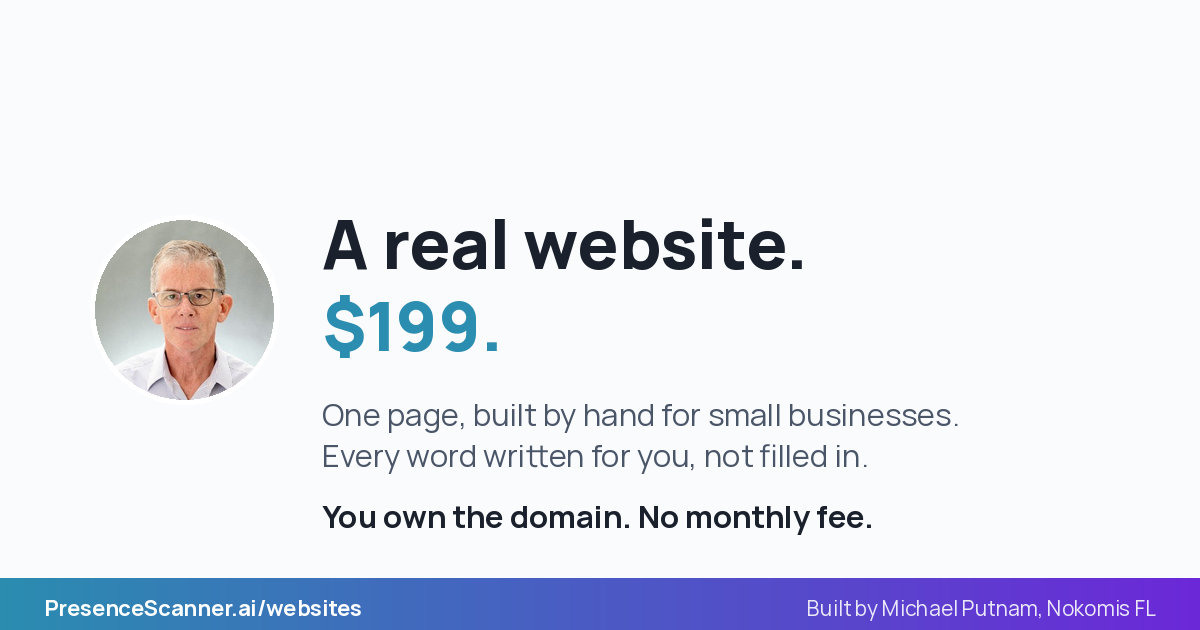
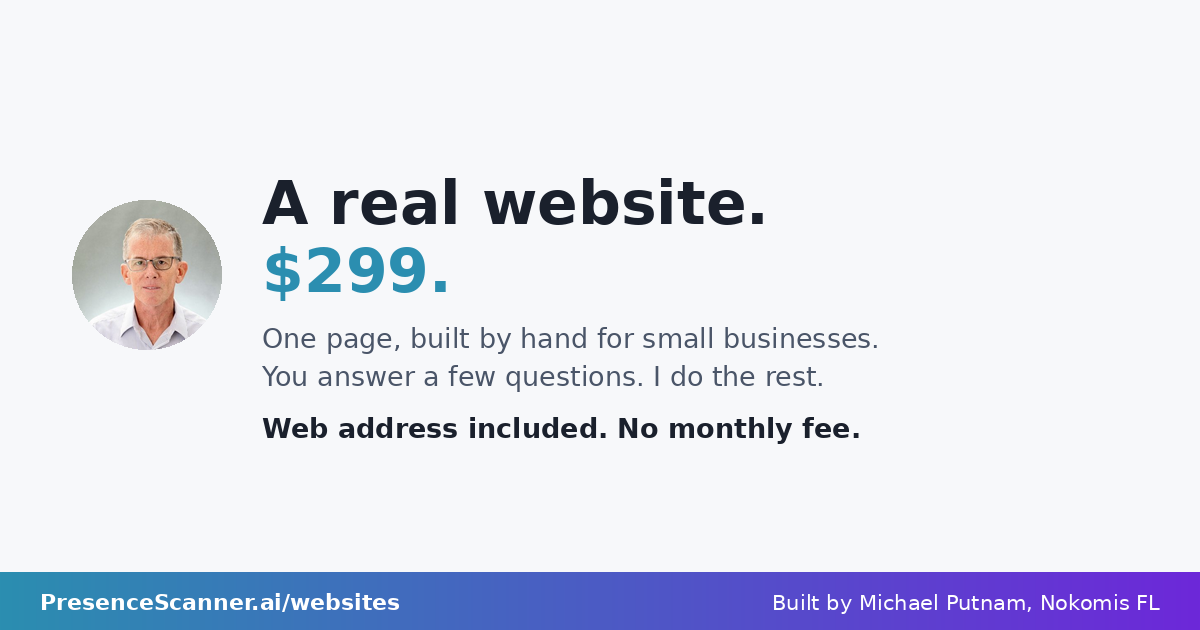
Add files via upload

Changed region(s): [[0.0617, 0.2714, 0.8017, 0.754], [0.0, 0.9048, 1.0, 0.9952], [0.2775, 0.7841, 0.74, 0.8444]]

diff --git a/public/websites.html b/public/websites.html
@@ -12,11 +12,11 @@
 
 <meta charset="UTF-8">
 <meta name="viewport" content="width=device-width, initial-scale=1.0">
-<title>Small Business Website, $199, Venice FL | PresenceScanner</title>
-<meta name="description" content="What a small business website costs in Southwest Florida. One page, built by hand, $199, no monthly fee. You own the domain. Venice, North Port and Sarasota.">
+<title>Small Business Website, $299, Venice FL | PresenceScanner</title>
+<meta name="description" content="What a small business website costs in Southwest Florida. One page, built by hand, $299, web address included, no monthly fee. Venice, North Port and Sarasota.">
 <link rel="canonical" href="https://www.presencescanner.ai/websites">
-<meta property="og:title" content="A real website, built by hand. $199.">
-<meta property="og:description" content="Hand-built, not a template. You own the domain. Submitted to Google and Bing. Built by Michael Putnam in Venice, Florida.">
+<meta property="og:title" content="A real website, built by hand. $299.">
+<meta property="og:description" content="One page, built by hand for small businesses. You answer a few questions, I do the rest. I buy the web address in your name. Built by Michael Putnam in Venice, Florida.">
 <meta property="og:type" content="website">
 <meta property="og:image" content="https://www.presencescanner.ai/og-websites.png">
 <meta property="og:image:width" content="1200">
@@ -24,6 +24,11 @@
 <meta property="og:url" content="https://www.presencescanner.ai/websites">
 <meta name="twitter:card" content="summary_large_image">
 <meta name="twitter:image" content="https://www.presencescanner.ai/og-websites.png">
+<link rel="icon" href="/favicon.ico" sizes="any">
+<link rel="icon" type="image/png" sizes="32x32" href="/favicon-32x32.png">
+<link rel="icon" type="image/png" sizes="16x16" href="/favicon-16x16.png">
+<link rel="apple-touch-icon" href="/apple-touch-icon.png">
+<meta name="theme-color" content="#2b8eb0">
 <link rel="preconnect" href="https://fonts.googleapis.com">
 <link rel="preconnect" href="https://fonts.gstatic.com" crossorigin>
 <link href="https://fonts.googleapis.com/css2?family=Manrope:wght@500;600;700;800&amp;family=DM+Sans:wght@400;500;600&amp;display=optional" rel="stylesheet">
@@ -75,7 +80,7 @@
   "@id": "https://www.presencescanner.ai/websites#service",
   "name": "One-Page Website Build for Local Businesses",
   "serviceType": "Website design and build",
-  "description": "A hand-built one-page website for small local businesses in Southwest Florida, written so Google and AI search tools can read and cite it. $199 one time. The customer owns the domain and the hosting account.",
+  "description": "A hand-built one-page website for small local businesses in Southwest Florida, written so Google and AI search tools can read and quote it. $299 one time, including the first year of the web address. The web address is bought in the customer’s name and the account is theirs.",
   "provider": {
     "@type": "LocalBusiness",
     "name": "PresenceScanner",
@@ -103,9 +108,9 @@
   ],
   "offers": {
     "@type": "Offer",
-    "price": "199",
+    "price": "299",
     "priceCurrency": "USD",
-    "description": "One page, built by hand. Extra pages $99 each. The customer owns the domain and hosting.",
+    "description": "One page, built by hand, including the first year of the web address. Extra pages $99 each. The web address is bought in the customer’s name and the account is theirs.",
     "availability": "https://schema.org/InStock"
   }
 }
@@ -140,15 +145,15 @@
       "name": "How much should a small business website cost?",
       "acceptedAnswer": {
         "@type": "Answer",
-        "text": "Search that question and you get agency guides quoting $500 to $15,000, or $500 to $25,000, and every one of them ends with \"it depends.\" That range is real, because it covers everything from a one-page site to a full online shop. What it does not do is answer your question. Here is a number instead. A one-page small business website, built by hand, is $199 with me. One payment. Extra pages are $99 each. The domain is yours, bought in your own name, and the hosting is free at this size and sits in your own account. If you need an online shop, a booking system or twenty pages of content, the agency ranges are honest and you should budget accordingly. If you need one good page that Google and AI search can actually read, you do not need to spend thousands."
+        "text": "Search that question and you get agency guides quoting $500 to $15,000, or $500 to $25,000, and every one of them ends with \"it depends.\" That range is real, because it covers everything from a one-page site to a full online shop. What it does not do is answer your question. Here is a number instead. A one-page small business website, built by hand, is $299 with me. One payment, and that includes me buying your web address for the first year and setting it up in your name. Extra pages are $99 each. Keeping a one-page site online costs nothing. If you need an online shop, a booking system or twenty pages of content, the agency ranges are honest and you should budget accordingly. If you need one good page that Google and AI search can actually read, you do not need to spend thousands."
       }
     },
     {
       "@type": "Question",
-      "name": "What does $199 actually get me?",
+      "name": "What does $299 actually get me?",
       "acceptedAnswer": {
         "@type": "Answer",
-        "text": "One page, built by hand from what you tell me about your business. Your services written out specifically, your service area, your real customer reviews as text, a tap-to-call button, and a set of questions and answers customers actually ask. Plus the technical work underneath that makes it readable to Google and to AI tools: structured data, a sitemap, a robots file that welcomes the AI crawlers, and submission to both Google and Bing."
+        "text": "Your web address, bought and set up in your name. One page, built by hand. Your services written out specifically, the towns you cover, your real customer reviews as text, a button that dials your phone, and a set of questions and answers customers actually ask. Underneath that, the work nobody sees: the labels that tell Google what kind of business you are, a file that invites the AI tools in rather than shutting them out, and your page submitted to Google and Bing by me so it gets found instead of sitting there."
       }
     },
     {
@@ -156,23 +161,15 @@
       "name": "Why one page and not five?",
       "acceptedAnswer": {
         "@type": "Answer",
-        "text": "Because one page carries the heavy work. Everything that makes you findable, your services, your reviews, your questions and answers and the technical work underneath, all sits on that page and all of it counts. Five thin pages perform worse than one good one. Start with the one, live with it a while, and add pages later if you find you actually need them. They are $99 each and they are not going anywhere."
+        "text": "Because one page carries the heavy work. Everything that makes you findable, your services, your reviews, your questions and answers and the work underneath, all sits on that page and all of it counts. My own view, from building these, is that five thin pages do less for you than one good one. Start with the one, live with it a while, and add pages later if you find you actually need them. They are $99 each and they are not going anywhere."
       }
     },
     {
       "@type": "Question",
-      "name": "Who owns the domain and the website?",
+      "name": "Who owns the website?",
       "acceptedAnswer": {
         "@type": "Answer",
-        "text": "You do, both. The domain is bought in your own name, with your own card. The hosting sits in your own account, free at this size, and you invite me in to do the work. You can remove me with two clicks whenever you like, and the files are yours on request."
-      }
-    },
-    {
-      "@type": "Question",
-      "name": "Why is the hosting free? What happens if that changes?",
-      "acceptedAnswer": {
-        "@type": "Answer",
-        "text": "Cloudflare's own documentation says requests to static assets are free and unlimited. It is not a trial or a promotion. They already run that network for their paying customers, so serving a small site like yours costs them nothing extra, and some free users eventually become paying ones. That is the whole model. If they ever did start charging, their paid plan starts at $5 a month, but the better answer is that it would barely matter. Your site is plain files with no database behind it, so moving it somewhere else takes minutes. You are not locked in to anybody, including me."
+        "text": "You do. I buy the web address, but the account is created in your name with your email and your phone number, and you get the password. The account the site runs on is in your name too, and you invite me in to do the work. You can remove me with two clicks whenever you like, and the files are yours on request. It is yours, not rented from me."
       }
     },
     {
@@ -180,7 +177,7 @@
       "name": "Is there a monthly fee?",
       "acceptedAnswer": {
         "@type": "Answer",
-        "text": "No. You pay the $199 once. The only ongoing cost is your domain renewal, which goes to the registrar rather than to me. They set that price and it can change, so check it when you buy."
+        "text": "No. You pay the $299 once, and the first year of your web address is in that. After that the only thing you pay is the renewal, about $11 a year, and it goes to the company that holds it rather than to me. Keeping a one-page site online is free. That is not a trial offer. Cloudflare's own documentation says requests to static assets are free and unlimited on both the free and paid plans."
       }
     },
     {
@@ -188,7 +185,7 @@
       "name": "How long does it take?",
       "acceptedAnswer": {
         "@type": "Answer",
-        "text": "A few days, usually. The build itself takes under an hour. What takes the time is you and I talking through what goes on it, and then waiting for the domain to connect."
+        "text": "A few days, usually. The build itself takes under an hour. What takes the time is you and I talking through what goes on it, and then waiting for your web address to connect."
       }
     },
     {
@@ -204,7 +201,7 @@
       "name": "I already have a Facebook page. Is that not enough?",
       "acceptedAnswer": {
         "@type": "Answer",
-        "text": "Facebook is rented ground and it is hard for search engines and AI tools to read. When someone asks ChatGPT for a painter in North Port, it draws on web pages it can read, not on your Facebook posts. A page of your own on your own domain is something you control and something those tools can quote."
+        "text": "Facebook is somebody else's property and it is hard for Google and the AI tools to read. When someone asks ChatGPT for a painter in North Port, it draws on web pages it can read, not on your Facebook posts. A page of your own, at your own web address, is something you control and something those tools can quote."
       }
     },
     {
@@ -212,7 +209,7 @@
       "name": "Do I have to be on the PresenceScanner directory?",
       "acceptedAnswer": {
         "@type": "Answer",
-        "text": "No. They are separate things. The directory listing is free and always will be. This is paid work on a site of your own."
+        "text": "No. They are separate things. The directory listing is free and always will be. This is paid work on a website of your own."
       }
     },
     {
@@ -220,7 +217,7 @@
       "name": "What makes this different from Wix or Squarespace?",
       "acceptedAnswer": {
         "@type": "Answer",
-        "text": "Those give you a template and you do the work. This is written for you, by a person, from a conversation about your business. And the part most template sites skip is the part that matters now: the structured data, the visible questions and answers, and being submitted properly so Google and AI tools can find it."
+        "text": "Those hand you a template and you do the work. Here you answer a few questions and I do the rest. And the part most template sites skip is the part that matters now: the labels Google reads, questions and answers written out where people can see them, and the page submitted properly so Google and the AI tools can find it."
       }
     }
   ]
@@ -232,15 +229,22 @@
 <div class="wrap">
 
   <p class="crumb"><a href="https://www.presencescanner.ai">PresenceScanner</a> &rsaquo; Websites</p>
-  <h1>A one-page website, built by hand, $199</h1>
-  <p class="lead">Affordable small business web design for Venice, Nokomis, North Port, Port Charlotte, Englewood and Sarasota. For anybody who doesn't have a website yet, or has one nobody can find. You own the domain. You own the hosting. One payment, no monthly fee.</p>
+  <h1>A one-page website, built by hand, $299</h1>
+  <p class="lead">Small business websites for Venice, Nokomis, North Port, Port Charlotte, Englewood and Sarasota. For anybody with no website yet, or one that never turns up when people search. I buy the web address for you, in your name. One payment, no monthly fee.</p>
 
   <div class="tide" style="display:flex;gap:18px;align-items:flex-start;flex-wrap:wrap">
     <img src="https://www.presencescanner.ai/michael-putnam.jpg" alt="Michael Putnam, who builds the websites, Venice Florida" width="92" height="92" style="width:92px;height:92px;border-radius:50%;flex-shrink:0;border:2px solid #fff;box-shadow:0 2px 8px rgba(0,0,0,.08)">
     <div style="flex:1;min-width:240px">
-    <p style="margin:0 0 8px"><strong>Michael Putnam, Venice.</strong> You deal with me start to finish. There is no team, no account manager and no ticket number.</p>
-    <p style="margin:0"><strong>Why this exists.</strong> I run the free PresenceScanner directory, and the same thing kept showing up in scan after scan: a business with a hundred five-star reviews, thirty years of work behind them, and nothing on the web that Google or ChatGPT can actually read. A directory page helps. Your own site helps more. So I started building them.</p>
+    <p style="margin:0 0 8px"><strong>Michael Putnam, Venice.</strong> You deal with me start to finish. There is no team and no account manager.</p>
+    <p style="margin:0"><strong>Why this exists.</strong> I run the free PresenceScanner directory, and the same thing kept showing up in scan after scan: a business with a hundred five-star reviews, thirty years of work behind them, and nothing on the web that Google or ChatGPT can actually read. A directory page helps. Your own website helps more. So I started building them.</p>
     </div>
+  </div>
+
+  <h2>Who this is for</h2>
+  <div class="card">
+    <p style="margin-bottom:10px"><strong>It's for you if</strong> you run a small business, you do good work, people leave you good reviews, and none of that exists anywhere a search engine can read it. Most of what I build is for trades and service businesses, because that is who needs it most around here.</p>
+    <p style="margin-bottom:10px"><strong>It isn't for you if</strong> you need an online shop, a booking calendar built from scratch, a members area, or twenty pages of content.</p>
+    <p style="margin-bottom:0">Not because those are bad ideas. Because they are real development work and they cost real money, thousands rather than hundreds, and anyone who tells you otherwise at this price is going to hand you something broken. I would rather say so now than take your $299 and disappoint you. If that is what you need, I will tell you straight and point you somewhere better.</p>
   </div>
 
   <h2>See one first</h2>
@@ -250,91 +254,43 @@
     <p style="margin-bottom:0">Built from one phone call and a folder of his own photos. Live in a few days.</p>
   </div>
 
-  <div class="card">
-    <p style="font-style:italic;margin-bottom:10px">"Working with Michael Putnam was a great experience. He built my site from nothing, corrected every detail, and turned it into a clean, professional web page that represents my business perfectly. Highly recommend his work."</p>
-    <p style="margin:0;color:var(--med);font-size:.95rem">Russell Opp, GOGO Painting LLC, North Port</p>
-  </div>
-
   <h2>What you get</h2>
   <div class="card">
     <div class="step"><strong>Your services, written out specifically.</strong></div>
-    <p style="margin:-8px 0 16px">Not "home services." The actual words customers type, because those are the words that get you found.</p>
+    <p style="margin:-8px 0 16px">Not a catch-all phrase like home services. The actual words customers type, because those are the words that get you found.</p>
 
     <div class="step"><strong>Your real reviews, as text on the page.</strong></div>
-    <p style="margin:-8px 0 16px">A link to your reviews is no use. The systems doing the recommending can't read a link. They can read words.</p>
+    <p style="margin:-8px 0 16px">Google and the AI tools cannot read a link to your reviews. They read words. So the words go on the page.</p>
 
     <div class="step"><strong>Your photos, sized properly.</strong></div>
     <p style="margin:-8px 0 16px">Before and after pairs if you have them. That's the strongest thing a trade can show.</p>
 
     <div class="step"><strong>Questions and answers people actually ask.</strong></div>
-    <p style="margin:-8px 0 16px">Visible on the page, not hidden in the code. This is the part most sites get wrong, and it's the part AI tools quote.</p>
+    <p style="margin:-8px 0 16px">Written out where customers can read them. Most websites leave these out, and the AI tools quote them more than anything else on a page.</p>
 
     <div class="step"><strong>Tap to call, everywhere.</strong></div>
     <p style="margin:-8px 0 16px">A phone number they can press, visible the whole way down the page.</p>
 
-    <div class="step"><strong>The technical work underneath.</strong></div>
-    <p style="margin:-8px 0 0">Structured data so search engines know what your business is. A sitemap. A robots file that welcomes the AI crawlers rather than blocking them. Then submitted to Google and Bing, and indexing requested, so it actually gets found instead of sitting there.</p>
+    <div class="step"><strong>The work nobody sees.</strong></div>
+    <p style="margin:-8px 0 0">Behind the words there's a layer that tells Google what kind of business you are and invites the AI tools in rather than shutting them out. Most websites get this wrong or skip it. I set it up and then submit your page to Google and Bing myself, so it gets found instead of sitting there.</p>
   </div>
 
   <h2>What it costs</h2>
   <div class="card">
-    <div class="step"><span style="color:var(--cyan);font-weight:800">$199</span> <span>one page, one payment</span></div>
+    <div class="step"><span style="color:var(--cyan);font-weight:800">$299</span> <span>one page, one payment, and I buy your web address for the first year</span></div>
     <div class="step"><span style="color:var(--cyan);font-weight:800">$99</span> <span>each extra page, if you genuinely need one</span></div>
-    <div class="step"><span style="color:var(--cyan);font-weight:800">Domain</span> <span>bought in your own name, paid to the registrar, not to me. Roughly $11 to $22 a year depending where you buy it.</span></div>
-    <p style="margin:14px 0 0"><strong>No monthly fee. No hosting bill.</strong> Hosting is free at this size and it sits in your account, not mine.</p>
-  </div>
-
-  <h2>Where to buy your domain</h2>
-  <div class="card">
-    <p>You buy it, not me, so it is yours outright. Here is what they actually cost, because the advertised first-year price is rarely the price you keep paying.</p>
-    <div class="step"><a class="backlink" href="https://www.cloudflare.com/products/registrar/" target="_blank" rel="noopener">Cloudflare</a></div>
-    <p style="margin:-8px 0 16px">About $10.46 a year for a .com, the same every year, with privacy included. This is the one I recommend. It is the cheapest, and because the site ends up hosted there anyway, it saves a step on setup.</p>
-    <div class="step"><a class="backlink" href="https://www.godaddy.com/domains" target="_blank" rel="noopener">GoDaddy</a></div>
-    <p style="margin:-8px 0 16px">Around $21.99 a year on renewal, with privacy a further $10 to $15. The first year is often cheap and then it jumps. Worth knowing if you go this way.</p>
-    <p style="margin:0;color:var(--med);font-size:.93rem">The GoDaddy link above is an affiliate link, which means I may earn a small commission if you sign up through it, at no extra cost to you. The Cloudflare link is not, and Cloudflare is the cheaper option. I would rather tell you that than earn a few dollars.</p>
+    <div class="step"><span style="color:var(--cyan);font-weight:800">After year one</span> <span>the web address renews at about $11 a year. You pay that to the company that holds it, not to me.</span></div>
+    <p style="margin:14px 0 0"><strong>No monthly fee.</strong> Keeping a one-page website online costs nothing, and that account is in your name, not mine.</p>
   </div>
 
   <h2>How it works</h2>
   <div class="card">
-    <div class="step"><strong>1.</strong><span>You fill in a form. Ten minutes, and it's what the site gets written from.</span></div>
+    <div class="step"><strong>1.</strong><span>You fill in a form. Ten minutes, and it's what the website gets written from.</span></div>
     <div class="step"><strong>2.</strong><span>We talk. Half an hour on the phone about your business, which is where the good material comes from.</span></div>
-    <div class="step"><strong>3.</strong><span>You buy your domain, in your own name, and I'll walk you through it.</span></div>
+    <div class="step"><strong>3.</strong><span>I buy your web address and set the account up in your name, your email and your phone number. Then I hand you the password. It is yours from day one.</span></div>
     <div class="step"><strong>4.</strong><span>I build it and you look at it. One round of changes included.</span></div>
-    <div class="step"><strong>5.</strong><span>It goes live on your domain and gets submitted to Google and Bing.</span></div>
+    <div class="step"><strong>5.</strong><span>It goes live and I submit it to Google and Bing.</span></div>
     <div class="step" style="margin-bottom:0"><strong>6.</strong><span>You add it to your Google Business Profile, which is the field most businesses leave empty.</span></div>
-  </div>
-
-  <h2>Who this is for</h2>
-  <div class="card">
-    <p style="margin-bottom:10px"><strong>It's for you if</strong> you run a small business, you do good work, people leave you good reviews, and none of that exists anywhere a search engine can read it. Most of the small business web design I do is for trades and service businesses, because that is who needs it most around here.</p>
-    <p style="margin-bottom:10px"><strong>It isn't for you if</strong> you need an online shop, a booking calendar built from scratch, a membership area, or twenty pages of content.</p>
-    <p style="margin-bottom:0">Not because those are bad ideas. Because they are real development work and they cost real money, thousands rather than hundreds, and anyone who tells you otherwise at this price is going to hand you something broken. I would rather say so now than take your $199 and disappoint you. If that is what you need, I will tell you straight and point you somewhere better.</p>
-  </div>
-
-  <h2>Common questions</h2>
-  <div class="faq">
-    <p style="font-weight:700;color:var(--ink);margin:0 0 5px">How much should a small business website cost?</p>
-    <p style="margin:0 0 18px">Search that question and you get agency guides quoting $500 to $15,000, or $500 to $25,000, and every one of them ends with "it depends." That range is real, because it covers everything from a one-page site to a full online shop. What it does not do is answer your question. Here is a number instead. A one-page small business website, built by hand, is $199 with me. One payment. Extra pages are $99 each. The domain is yours, bought in your own name, and the hosting is free at this size and sits in your own account. If you need an online shop, a booking system or twenty pages of content, the agency ranges are honest and you should budget accordingly. If you need one good page that Google and AI search can actually read, you do not need to spend thousands.</p>
-    <p style="font-weight:700;color:var(--ink);margin:0 0 5px">What does $199 actually get me?</p>
-    <p style="margin:0 0 18px">One page, built by hand from what you tell me about your business. Your services written out specifically, your service area, your real customer reviews as text, a tap-to-call button, and a set of questions and answers customers actually ask. Plus the technical work underneath that makes it readable to Google and to AI tools: structured data, a sitemap, a robots file that welcomes the AI crawlers, and submission to both Google and Bing.</p>
-    <p style="font-weight:700;color:var(--ink);margin:0 0 5px">Why one page and not five?</p>
-    <p style="margin:0 0 18px">Because one page carries the heavy work. Everything that makes you findable, your services, your reviews, your questions and answers and the technical work underneath, all sits on that page and all of it counts. Five thin pages perform worse than one good one. Start with the one, live with it a while, and add pages later if you find you actually need them. They are $99 each and they are not going anywhere.</p>
-    <p style="font-weight:700;color:var(--ink);margin:0 0 5px">Who owns the domain and the website?</p>
-    <p style="margin:0 0 18px">You do, both. The domain is bought in your own name, with your own card. The hosting sits in your own account, free at this size, and you invite me in to do the work. You can remove me with two clicks whenever you like, and the files are yours on request.</p>
-    <p style="font-weight:700;color:var(--ink);margin:0 0 5px">Why is the hosting free? What happens if that changes?</p>
-    <p style="margin:0 0 18px">Cloudflare's own documentation says requests to static assets are free and unlimited. It is not a trial or a promotion. They already run that network for their paying customers, so serving a small site like yours costs them nothing extra, and some free users eventually become paying ones. That is the whole model. If they ever did start charging, their paid plan starts at $5 a month, but the better answer is that it would barely matter. Your site is plain files with no database behind it, so moving it somewhere else takes minutes. You are not locked in to anybody, including me.</p>
-    <p style="font-weight:700;color:var(--ink);margin:0 0 5px">Is there a monthly fee?</p>
-    <p style="margin:0 0 18px">No. You pay the $199 once. The only ongoing cost is your domain renewal, which goes to the registrar rather than to me. They set that price and it can change, so check it when you buy.</p>
-    <p style="font-weight:700;color:var(--ink);margin:0 0 5px">How long does it take?</p>
-    <p style="margin:0 0 18px">A few days, usually. The build itself takes under an hour. What takes the time is you and I talking through what goes on it, and then waiting for the domain to connect.</p>
-    <p style="font-weight:700;color:var(--ink);margin:0 0 5px">What if I do not like it?</p>
-    <p style="margin:0 0 18px">You get one round of changes included. Tell me what is wrong and I fix it. Typos and wrong phone numbers are always free to fix, whenever you spot them.</p>
-    <p style="font-weight:700;color:var(--ink);margin:0 0 5px">I already have a Facebook page. Is that not enough?</p>
-    <p style="margin:0 0 18px">Facebook is rented ground and it is hard for search engines and AI tools to read. When someone asks ChatGPT for a painter in North Port, it draws on web pages it can read, not on your Facebook posts. A page of your own on your own domain is something you control and something those tools can quote.</p>
-    <p style="font-weight:700;color:var(--ink);margin:0 0 5px">Do I have to be on the PresenceScanner directory?</p>
-    <p style="margin:0 0 18px">No. They are separate things. The directory listing is free and always will be. This is paid work on a site of your own.</p>
-    <p style="font-weight:700;color:var(--ink);margin:0 0 5px">What makes this different from Wix or Squarespace?</p>
-    <p style="margin:0 0 0">Those give you a template and you do the work. This is written for you, by a person, from a conversation about your business. And the part most template sites skip is the part that matters now: the structured data, the visible questions and answers, and being submitted properly so Google and AI tools can find it.</p>
   </div>
 
   <div class="join">
@@ -344,6 +300,42 @@
       <a href="https://docs.google.com/forms/d/e/1FAIpQLSf1Yjv7muw2gwMKRB0IvZPNWBlMLO4TE3vP4V0g8TZyq3FvpA/viewform" target="_blank" rel="noopener" style="display:inline-block;background:#1a5d73;color:#fff;text-decoration:none;font-family:'Manrope',sans-serif;font-weight:800;font-size:1.08rem;padding:14px 28px;border-radius:999px">Fill in the form &rarr;</a>
       <a href="tel:9416629941" style="display:inline-block;background:#fff;color:#1a5d73;border:2px solid #1a5d73;text-decoration:none;font-family:'Manrope',sans-serif;font-weight:800;font-size:1.08rem;padding:12px 26px;border-radius:999px">Call 941-662-9941</a>
     </div>
+  </div>
+
+  <div class="card" style="margin-top:16px">
+    <p style="font-style:italic;margin-bottom:10px">"Working with Michael Putnam was a great experience. He built my site from nothing, corrected every detail, and turned it into a clean, professional web page that represents my business perfectly. Highly recommend his work."</p>
+    <p style="margin:0;color:var(--med);font-size:.95rem">Russell Opp, GOGO Painting LLC, North Port</p>
+  </div>
+
+  <h2>Common questions</h2>
+  <div class="faq">
+    <p style="font-weight:700;color:var(--ink);margin:0 0 5px">How much should a small business website cost?</p>
+    <p style="margin:0 0 18px">Search that question and you get agency guides quoting $500 to $15,000, or $500 to $25,000, and every one of them ends with "it depends." That range is real, because it covers everything from a one-page site to a full online shop. What it does not do is answer your question. Here is a number instead. A one-page small business website, built by hand, is $299 with me. One payment, and that includes me buying your web address for the first year and setting it up in your name. Extra pages are $99 each. Keeping a one-page site online costs nothing. If you need an online shop, a booking system or twenty pages of content, the agency ranges are honest and you should budget accordingly. If you need one good page that Google and AI search can actually read, you do not need to spend thousands.</p>
+    <p style="font-weight:700;color:var(--ink);margin:0 0 5px">What does $299 actually get me?</p>
+    <p style="margin:0 0 18px">Your web address, bought and set up in your name. One page, built by hand. Your services written out specifically, the towns you cover, your real customer reviews as text, a button that dials your phone, and a set of questions and answers customers actually ask. Underneath that, the work nobody sees: the labels that tell Google what kind of business you are, a file that invites the AI tools in rather than shutting them out, and your page submitted to Google and Bing by me so it gets found instead of sitting there.</p>
+    <p style="font-weight:700;color:var(--ink);margin:0 0 5px">Why one page and not five?</p>
+    <p style="margin:0 0 18px">Because one page carries the heavy work. Everything that makes you findable, your services, your reviews, your questions and answers and the work underneath, all sits on that page and all of it counts. My own view, from building these, is that five thin pages do less for you than one good one. Start with the one, live with it a while, and add pages later if you find you actually need them. They are $99 each and they are not going anywhere.</p>
+    <p style="font-weight:700;color:var(--ink);margin:0 0 5px">Who owns the website?</p>
+    <p style="margin:0 0 18px">You do. I buy the web address, but the account is created in your name with your email and your phone number, and you get the password. The account the site runs on is in your name too, and you invite me in to do the work. You can remove me with two clicks whenever you like, and the files are yours on request. It is yours, not rented from me.</p>
+    <p style="font-weight:700;color:var(--ink);margin:0 0 5px">Is there a monthly fee?</p>
+    <p style="margin:0 0 18px">No. You pay the $299 once, and the first year of your web address is in that. After that the only thing you pay is the renewal, about $11 a year, and it goes to the company that holds it rather than to me. Keeping a one-page site online is free. That is not a trial offer. Cloudflare's own documentation says requests to static assets are free and unlimited on both the free and paid plans.</p>
+    <p style="font-weight:700;color:var(--ink);margin:0 0 5px">How long does it take?</p>
+    <p style="margin:0 0 18px">A few days, usually. The build itself takes under an hour. What takes the time is you and I talking through what goes on it, and then waiting for your web address to connect.</p>
+    <p style="font-weight:700;color:var(--ink);margin:0 0 5px">What if I do not like it?</p>
+    <p style="margin:0 0 18px">You get one round of changes included. Tell me what is wrong and I fix it. Typos and wrong phone numbers are always free to fix, whenever you spot them.</p>
+    <p style="font-weight:700;color:var(--ink);margin:0 0 5px">I already have a Facebook page. Is that not enough?</p>
+    <p style="margin:0 0 18px">Facebook is somebody else's property and it is hard for Google and the AI tools to read. When someone asks ChatGPT for a painter in North Port, it draws on web pages it can read, not on your Facebook posts. A page of your own, at your own web address, is something you control and something those tools can quote.</p>
+    <p style="font-weight:700;color:var(--ink);margin:0 0 5px">Do I have to be on the PresenceScanner directory?</p>
+    <p style="margin:0 0 18px">No. They are separate things. The directory listing is free and always will be. This is paid work on a website of your own.</p>
+    <p style="font-weight:700;color:var(--ink);margin:0 0 5px">What makes this different from Wix or Squarespace?</p>
+    <p style="margin:0 0 0">Those hand you a template and you do the work. Here you answer a few questions and I do the rest. And the part most template sites skip is the part that matters now: the labels Google reads, questions and answers written out where people can see them, and the page submitted properly so Google and the AI tools can find it.</p>
+  </div>
+
+  <h2>About the web address</h2>
+  <div class="card">
+    <p style="margin-bottom:12px">Buying one trips people up more than anything else in this process, so I do it for you. I set the account up in your name, with your email and your phone number, buy the first year, and hand you the password. You are the owner on the paperwork and you hold the login. Nothing goes through me.</p>
+    <p style="margin-bottom:12px">I use Cloudflare, because a .com there is about $10.46 a year, the same price every year rather than cheap for twelve months and then double, and they keep your home address and phone number out of the public record at no extra charge.</p>
+    <p style="margin-bottom:0">After the first year the renewal is yours and they will email you about it. If you would rather buy it yourself from the start, that is fine, just say so and I will take $20 off.</p>
   </div>
 
 <footer>

diff --git a/public/updates.html b/public/updates.html
@@ -93,7 +93,7 @@
       <li><strong>The directory page was rebuilt.</strong> It is tiles now instead of one long list, with a search box and filter buttons across the top. On a phone you can find a trade in a couple of taps instead of scrolling past everybody. Worth a look if you have not seen it in a few weeks.</li>
       <li><strong>There is a reviews page.</strong> What members have said about being listed, in their own words. If you have something to say about yours, send it to me and it goes on there. <a href="https://www.presencescanner.ai/reviews">Read it here</a>.</li>
       <li><strong>I can now see when somebody taps your phone number.</strong> Every member page counts taps on your phone, your email, your website link and your Google listing. I cannot see who, only how many. If you want to know whether your page is doing anything, ask me and I will tell you what yours shows.</li>
-      <li><strong>Something new, and it is not free.</strong> Several of you have no website at all, and a directory page only carries you so far. So I started building simple one-page websites. $199, you own the domain, no monthly fee. The first one is live for GOGO Painting in North Port. <a href="https://www.presencescanner.ai/websites">Here is what it involves</a>, if you are curious. Your directory listing stays free either way, and always will.</li>
+      <li><strong>Something new, and it is not free.</strong> Several of you have no website at all, and a directory page only carries you so far. So I started building simple one-page websites. $299, I buy the web address in your name, no monthly fee. The first one is live for GOGO Painting in North Port. <a href="https://www.presencescanner.ai/websites">Here is what it involves</a>, if you are curious. Your directory listing stays free either way, and always will.</li>
     </ul>
   </div>
 

diff --git a/public/index.html b/public/index.html
@@ -2062,7 +2062,7 @@ function App(){
               colored CTA box — the report's credibility stays the product.
               Results page only (never the picker, loading screen, or email). */}
           <p style={{fontSize:"0.9rem",lineHeight:1.7,color:"var(--t2)",textAlign:"center",maxWidth:600,margin:"28px auto 0",padding:"18px 16px 0",borderTop:"1px solid rgba(0,0,0,0.08)"}}>
-            This scanner is free and it stays free. If you want a <a href="https://www.presencescanner.ai/websites" style={{color:"var(--cyan)",textDecoration:"underline",fontWeight:500}}>one-page website built by hand</a>, I build those for $199. One payment, no monthly fee, and the domain is yours in your own name.
+            This scanner is free and it stays free. If you want a <a href="https://www.presencescanner.ai/websites" style={{color:"var(--cyan)",textDecoration:"underline",fontWeight:500}}>one-page website built by hand</a>, I build those for $299. One payment, no monthly fee, and I buy the web address in your own name.
           </p>
           <SentimentStrip onTextFeedback={requestFeedback} voted={moodVoted} setVoted={setMoodVoted}/>
           <button className="rescan" onClick={reset}>← Scan Another Business</button>
